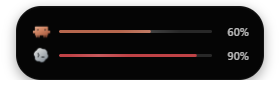
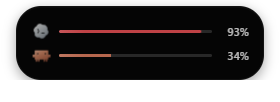
docs: refresh README with live screenshots, mark manual verification done
Replaces the pill screenshots with fresh captures from a live-launched
instance (mock mode, CDP screenshot) rather than the older set, adds an
npm version badge now that the package is published, and updates the
Status section: manual UI verification (collapsed/expanded, one- and
two-agent rows) is done, leaving only macOS/Linux hardware and
multi-monitor/fullscreen-stacking as open items.

diff --git a/README.md b/README.md
@@ -9,6 +9,7 @@
 </p>
 
 <p align="center">
+  <a href="https://www.npmjs.com/package/@mrayyan911/usage-pill"><img alt="npm" src="https://img.shields.io/npm/v/%40mrayyan911%2Fusage-pill?style=flat-square"></a>
   <img alt="License" src="https://img.shields.io/badge/license-MIT-blue?style=flat-square">
   <img alt="Platform" src="https://img.shields.io/badge/platform-Windows%20%7C%20macOS%20%7C%20Linux-lightgrey?style=flat-square">
   <img alt="Electron" src="https://img.shields.io/badge/Electron-44-9feaf9?style=flat-square">
@@ -42,6 +43,8 @@ usage, and plan, or click an agent icon to inspect it directly.
 
 ## Screenshots
 
+Captured from a live-launched instance (`USAGE_PILL_MOCK=1`), not mockups.
+
 | Collapsed | Expanded |
 | --- | --- |
 | ![Collapsed, two agents](docs/design/screenshots/compact-collapsed-two.png) | ![Expanded, two agents](docs/design/screenshots/compact-expanded-two.png) |
@@ -56,11 +59,6 @@ usage-pill setup        # register a hidden monitor to launch at login
 usage-pill monitor      # run that monitor manually, without registering it
 usage-pill setup:remove # unregister it
 ```
-
-> [!NOTE]
-> This package hasn't been published to the npm registry yet, so
-> `npm install -g` won't resolve until then — see [Status](#status). Run
-> from source in the meantime.
 
 ### Run from source
 
@@ -149,11 +147,15 @@ shared by `bin/usage-pill.js` and `scripts/manage-startup.js`.
 ## Status
 
 > [!NOTE]
-> - **Not published to npm yet** — `npm install -g @mrayyan911/usage-pill`
->   requires a one-time `npm publish --access public` first; run from
->   source until then.
-> - **macOS/Linux unverified on real hardware** — implemented and
->   unit-tested, not yet run on an actual Mac or Linux machine.
-> - **Live UI polish is a manual check** — hover-expand, fullscreen-app
->   stacking, and multi-monitor behavior are best confirmed by running
->   `npm start` yourself; the unit suite covers logic, not pixels.
+> - **macOS/Linux unverified on real hardware** — session detection and
+>   login-item registration are implemented and unit-tested against current
+>   Electron/XDG documentation, but not yet run on an actual Mac or Linux
+>   machine.
+> - **Multi-monitor and fullscreen-app stacking** are best confirmed by
+>   running the pill yourself on your own display setup; the unit suite
+>   covers logic, not every possible desktop configuration.
+
+Manually verified on Windows (2026-09-23): launched from a live instance
+(collapsed/expanded, one- and two-agent rows, real percentages and badges),
+confirmed against the visual source of truth — see the screenshots above,
+captured from that same run.
